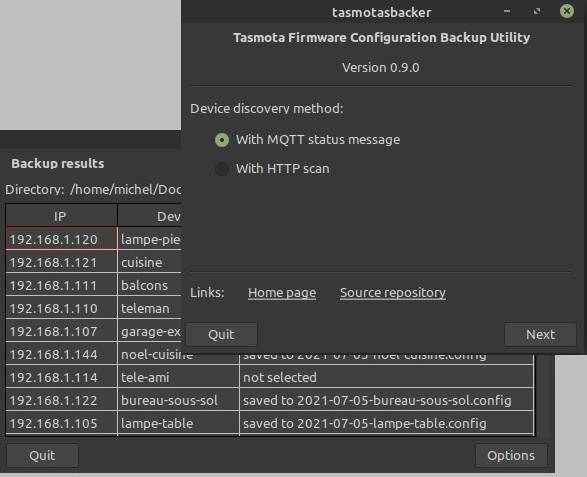
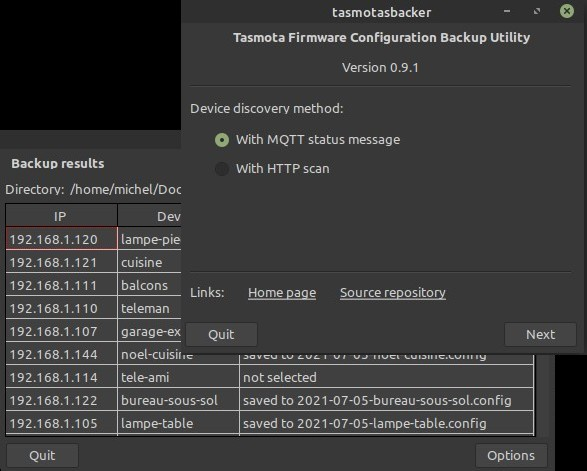
Bumped to version 0.9.1

diff --git a/README.md b/README.md
@@ -1,8 +1,8 @@
 # tasmotasbacker : Tasmotas Backer
 
-**Version 0.9.0** (July 12, 2021)
+**Version 0.9.1** (July 14, 2021)
 
-A utility that can back up the configuration of all Tasmota devices on a local network. Discovery of Tasmota devices can be done by querying them through an MQTT broker or by performing an HTTP scan of IP addresses on the LAN. 
+A utility to back up the configuration of all Tasmota devices on a local network. Discovery of Tasmota devices can be done by querying them through an MQTT broker or by performing an HTTP scan of IP addresses on the LAN. 
 
 The [Eclipse mosquitto](https://mosquitto.org/) library is used to exchange messages with the MQTT broker. Should the library not be installed then the utility will run.
 
@@ -35,10 +35,12 @@ Two Free Pascal units are required
 
 These files, found in the [mosquitto-p](mosquitto-p/) directory, are copied from the [GitHub repository](https://github.com/chainq/mosquitto-p) with the same name by Károly Balogh (chainq).
 
-In order to discover Tasmota devices by MQTT message to the Tasmota group topic, the  [Eclipse mosquitto](https://mosquitto.org/) library must be installed on the system. The program will work if the library is not installed, but of course, an HTTP scan will have to be used to identify Tasmota devices on the network. 
+In order to discover Tasmota devices by MQTT message to the Tasmota group topic or topics, the  [Eclipse mosquitto](https://mosquitto.org/) library must be installed on the system. The program will work if the library is not installed, but of course, an HTTP scan will have to be used to identify Tasmota devices on the network. 
+
+### Brief instructions on installing the optional `mosquitto` library
 
 
-### 1.1. Linux
+#### Linux (Debian systems)
 
 In Debian-based systems, the libmosquitto  packages can be installed with a package manager such as [Synaptic](http://www.nongnu.org/synaptic/) or from the command line.
 
@@ -46,8 +48,7 @@ In Debian-based systems, the libmosquitto  packages can be installed with a pack
 
 Note that the first package, `libmosquitto1`, will probably already be installed if the mosquitto-clients package is available on the system. There is no requirement to install the mosquitto MQTT broker.
 
-### 1.2. Windows 10
-
+#### Windows 10
 
 1. Get the latest binary package from [Eclipse mosquitto Download](https://mosquitto.org/download/). Version 2.0.10 is available as of May 5, 2021. Chose the appropriate 64-bit installer (`mosquitto-2.0.10-install-windows-x64.exe`) or 32-bit installer (`mosquitto-2.0.10-install-windows-x32.exe`). 
 
@@ -74,15 +75,21 @@ Note that the first package, `libmosquitto1`, will probably already be installed
 
 Ultimately, if a mosquitto MQTT broker is to be run on the system, it may make more sense to simply copy the executable into the `mosquitto` directory along side the `mosquitto_pub.exe` and `mosquitto_sub.exe` utilities it emulates.
 
+
 ## 2. Compiling
 
 The repository is self-contained (except for the mosquitto library of course), so creating this tool should be straightforward. Clone the repository, start the Lazarus IDE, load the project, and compile. 
 
 When compiling a final version, it would be advisable to heed the following advice.
 
-1. Ensure that the directives `UseCThreads`, `INCLUDE_MQTT_OPTIONS` and `INCLUDE_HTTP_OPTIONS` are added in the `Personalised Options` in `Project Options /Compiler Options`.
+1. Ensure that the directives 
+ - `UseCThreads`, 
+ - `INCLUDE_MQTT_OPTIONS`, 
+ - `INCLUDE_HTTP_OPTIONS`,
+ - `DYNAMIC_MOSQLIB`,  
+ are added in the `Personalised Options` in `Project Options /Compiler Options`. Optionally, the last directive may be omited. In that case, the `mosquitto` library will be linked in at compile time. Consequently, the library must be present when the program is compiled. Futhermore, the utility will abort immediately if the library is not present on the system. (Programmer's Guide: Using a library in a pascal program). Because the extra time to load the library at run-time is negligeable and it avoids theses problems, it is best to define the directive.
 
-1.  Modify the default password encryption key `DEFAULT_KEY` in the `units/pwd.pas` file. That way it will not be easy for any one of the numerous users of this application to gain access to a system to read the configuration file and then obtain the MQTT broker password. See [7.2. Security](#72-security) for more details.
+2.  Modify the default password encryption key `DEFAULT_KEY` in the `units/pwd.pas` file. That way it will not be easy for any one of the numerous users of this application to gain access to a system to read the configuration file and then obtain the MQTT broker password. See [7.2. Security](#72-security) for more details.
 
 2.  The application icon should be defined, but if it is not then select `Load Icon` in `Project / Project / Project Options` in the Lazarus IDE. The `tasmotabacker.png` image in the `images` directory can be used.
 
@@ -156,9 +163,14 @@ Note that the MQTT user and password are transmitted in plain text over an HTTP 
 
 A version of this project that does not use an MQTT broker to find Tasmota devices is available.
 
-- [tasmotasbacker0](https://github.com/sigmdel/tasmotasbacker0) by sigmdel.
+- [tasmotasbacker0](https://github.com/sigmdel/tasmotasbacker0).
 
-It does not require the `mosquitto` library and only uses HTTP requests to find Tasmota devices and download their configuration. The scan to find devices can be considerably longer than using an MQTT broker. On the other hand, it may find Tasmota devices that are not configured to use an MQTT broker or that have a broken MQTT configuration.
+It does not require the `mosquitto` library and only uses HTTP requests to find Tasmota devices and download their configuration. There is also an older version of the project 
+
+
+- [tasmotasbacker-mqtt-only](https://github.com/sigmdel/tasmotasbacker/tree/mqtt-only)
+
+that only usess MQTT messages to discover devices and therefore requirs the `mosquitto` library.
 
 There are two Python scripts on GitHub that do essentially the same thing:
 
